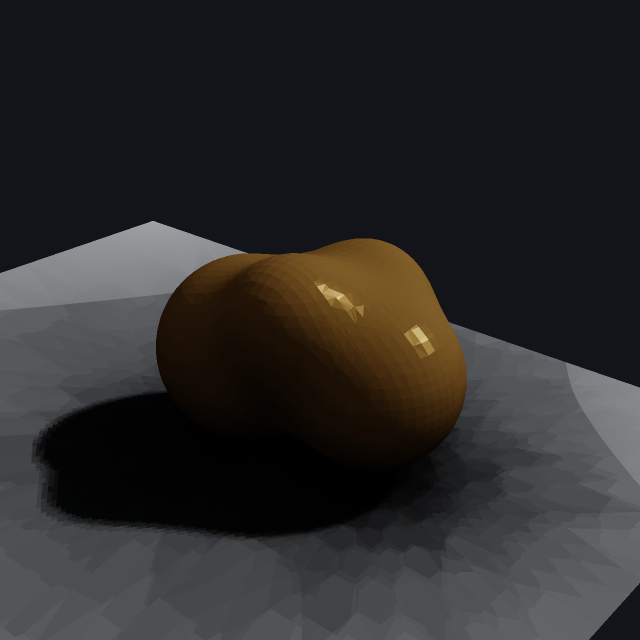
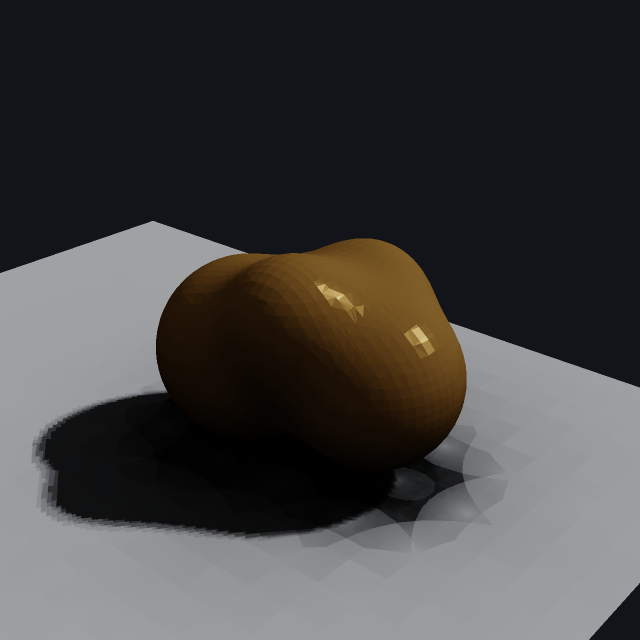
auto: ops3d.py 編集前 (2026-08-28 14:37)

diff --git a/render_beauty.py b/render_beauty.py
@@ -152,8 +152,8 @@ def _ground_quad(Vmesh: np.ndarray, light_world: np.ndarray, drop: float,
             b = i * n + (j + 1)
             c = (i + 1) * n + (j + 1)
             d = (i + 1) * n + j
-            faces.append([a, b, c])                     # CCW(上から見て) → +Z 外向き
-            faces.append([a, c, d])
+            faces.append([a, c, b])                     # +Z 外向き法線(上向き)
+            faces.append([a, d, c])
     Fg = np.asarray(faces, np.int64)
     eps_ground = 1e-4 * scene
     return Vg, Fg, ground_z, eps_ground
